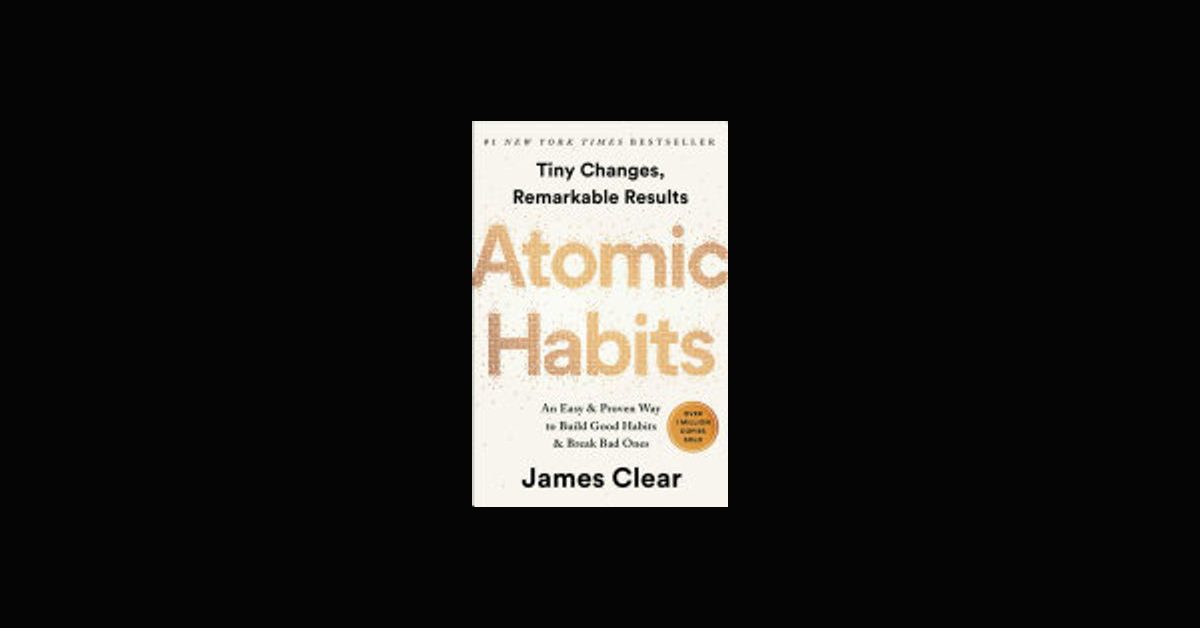
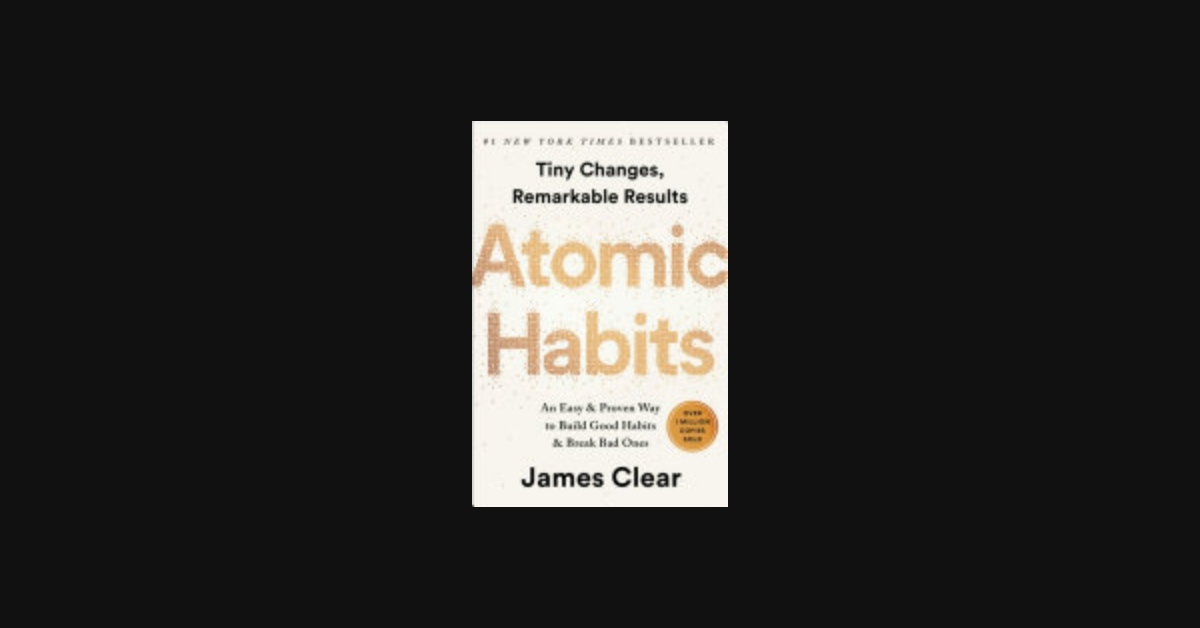
update colors

Changed region(s): [[0.4317, 0.6354, 0.5858, 0.7866], [0.4317, 0.242, 0.5858, 0.3328]]

diff --git a/src/theme/colors.ts b/src/theme/colors.ts
@@ -20,9 +20,9 @@ export const COLORS_LIGHT = {
 export type Colors = typeof COLORS_LIGHT
 
 export const COLORS_DARK: Colors = {
-  background: '#050505',
+  background: 'rgba(17, 17, 17, 1)',
   backgroundSecondary: 'rgba(255, 255, 255, 0.1)',
-  backgroundHeader: 'rgba(5, 5, 5, 0.8)',
+  backgroundHeader: 'rgba(17, 17, 17, 0.8)',
   text: '#fbfbfc',
   textSecondary: '#DEDFE5',
   textTertiary: '#9094A6',
@@ -30,8 +30,8 @@ export const COLORS_DARK: Colors = {
   linkPrimary: '#fdce45',
   linkBackground: '#222222',
   borderHR: '#565656',
-  borderMenu: 'rgba(130, 130, 130, 0.075)',
-  borderPrimary: 'rgba(130, 130, 130, 0.2)',
+  borderMenu: 'rgba(130, 130, 130, 0.01)',
+  borderPrimary: 'rgba(130, 130, 130, 0.1)',
   imageBackground: 'rgba(0, 0, 0, 0.75)',
   inputPlaceholder: '#404040',
   red: '#e74c3c',

diff --git a/src/pages/books/index.tsx b/src/pages/books/index.tsx
@@ -41,13 +41,13 @@ const BooksPage: React.FC<InferGetStaticPropsType<typeof getStaticProps>> = ({ d
               <Box m={1} />
 
               {book.meta.oneliner ? (
-                <Box display="inline-block">
-                  <hr style={{ width: '10%', marginLeft: 0 }} />
+                <>
+                  <Box my="12px" width="12%" height={1} backgroundColor="borderPrimary" />
 
                   <Text fontSize={[0, 1]} fontStyle="italic" color="textTertiary">
                     {book.meta.oneliner}
                   </Text>
-                </Box>
+                </>
               ) : null}
             </Box>
           </Flex>

diff --git a/src/core/api/image.ts b/src/core/api/image.ts
@@ -34,7 +34,7 @@ const getRemoteImageData = async (url: string): Promise<ImageData> => {
 export const getImageData = (url: string) =>
   url.startsWith('/') ? getLocalImageData(url) : getRemoteImageData(url)
 
-const META_IMAGE_BG_FILL_COLOR = '#050505'
+const META_IMAGE_BG_FILL_COLOR = '#111111'
 
 export const generateMetaImage = async ({
   directory,
